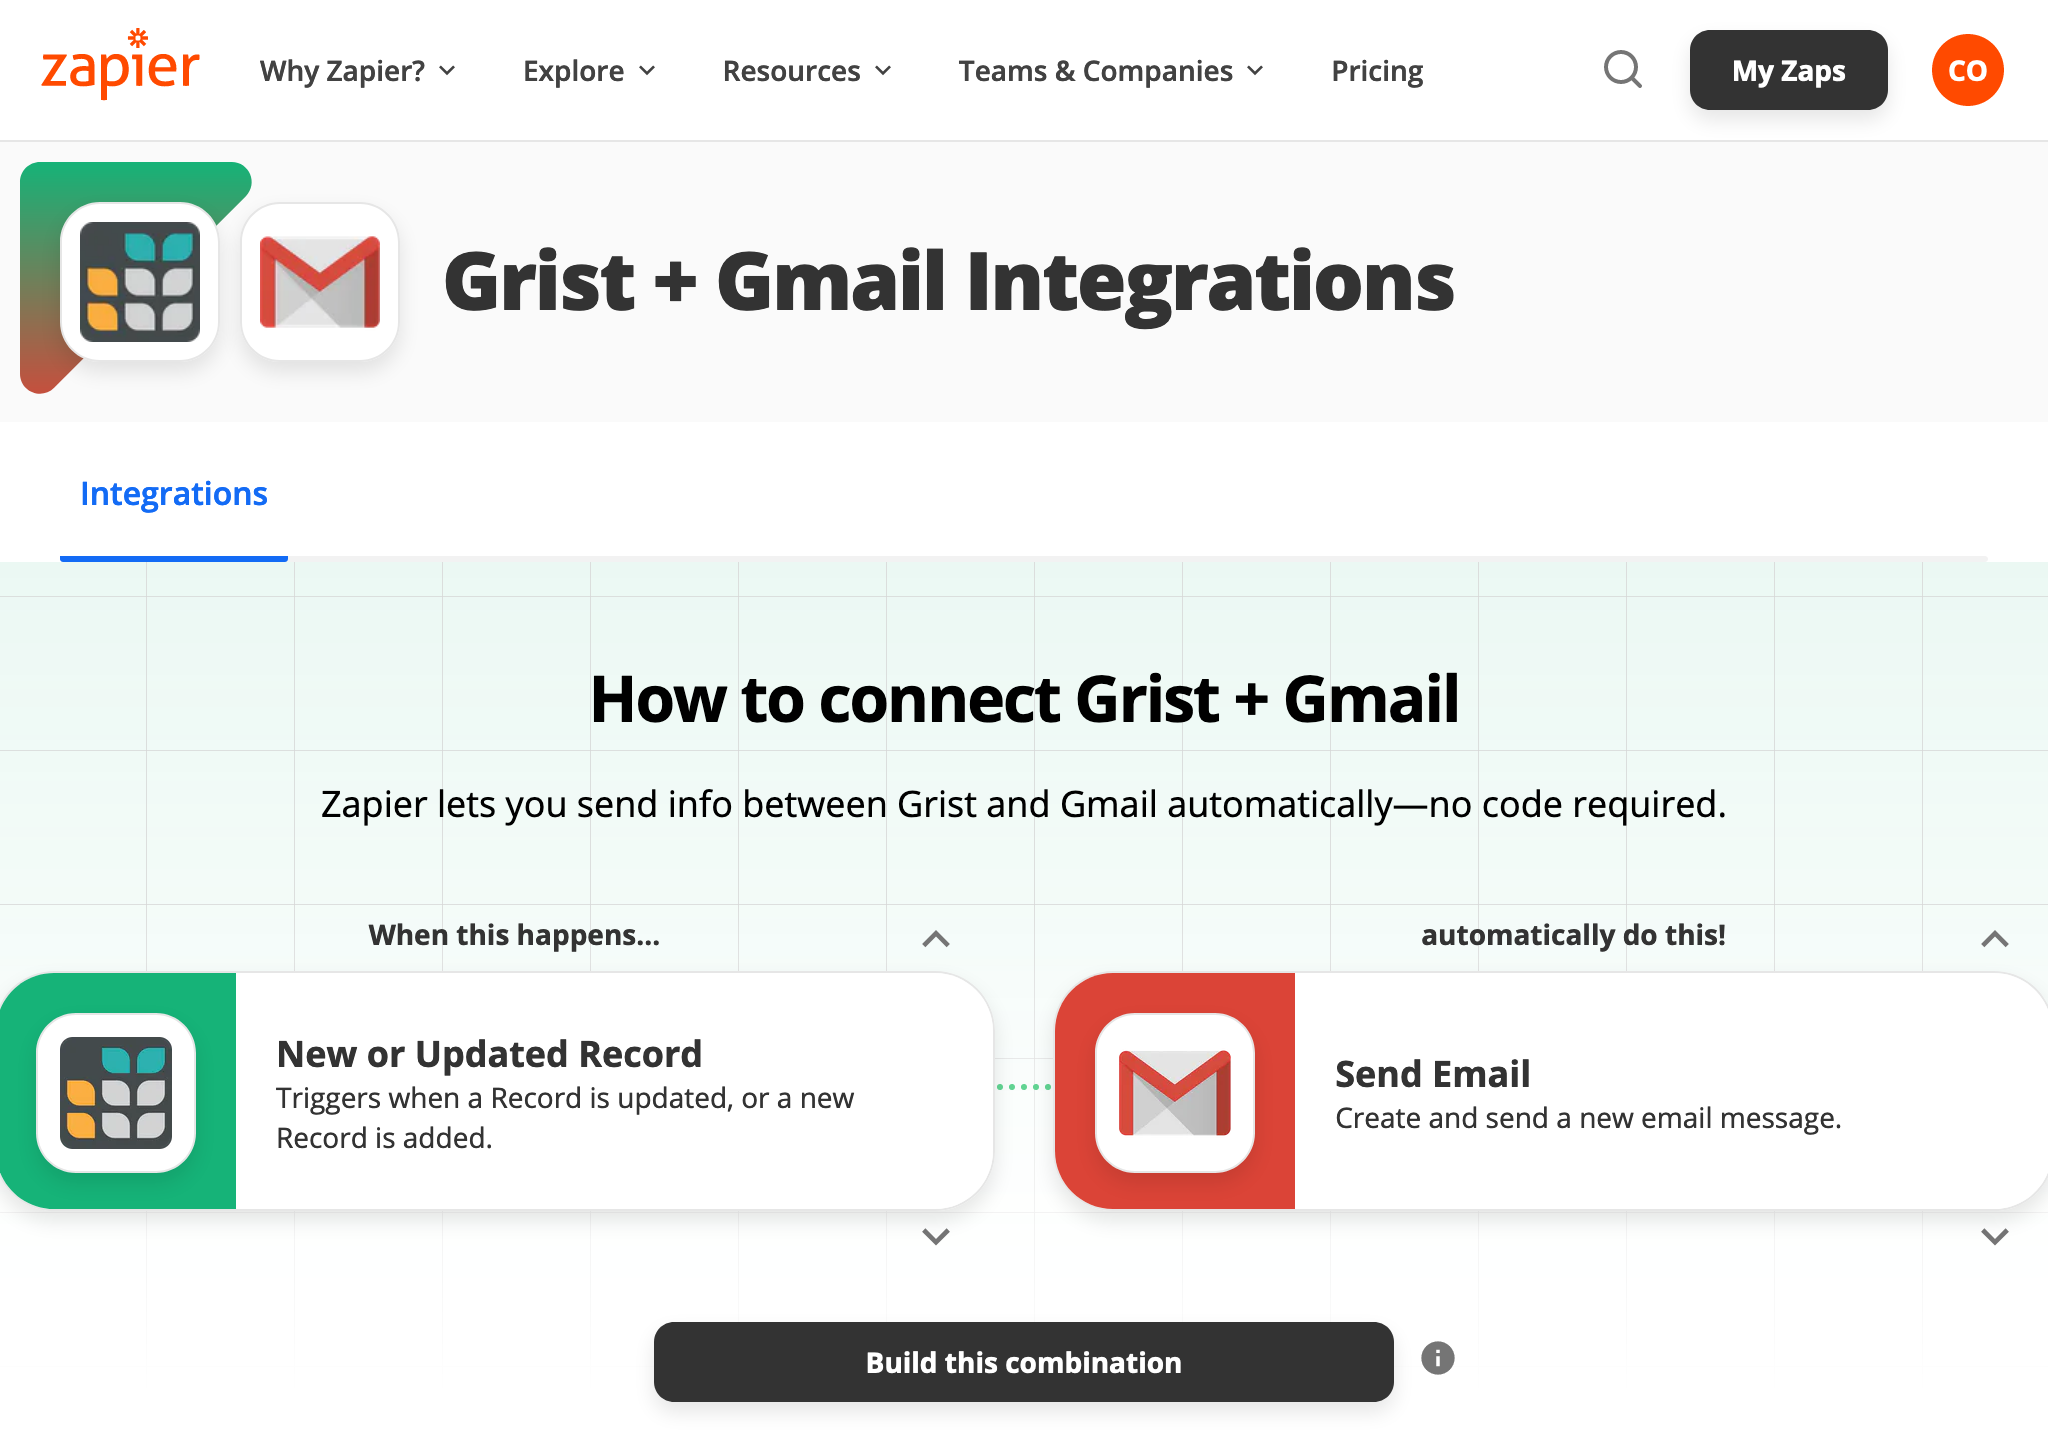
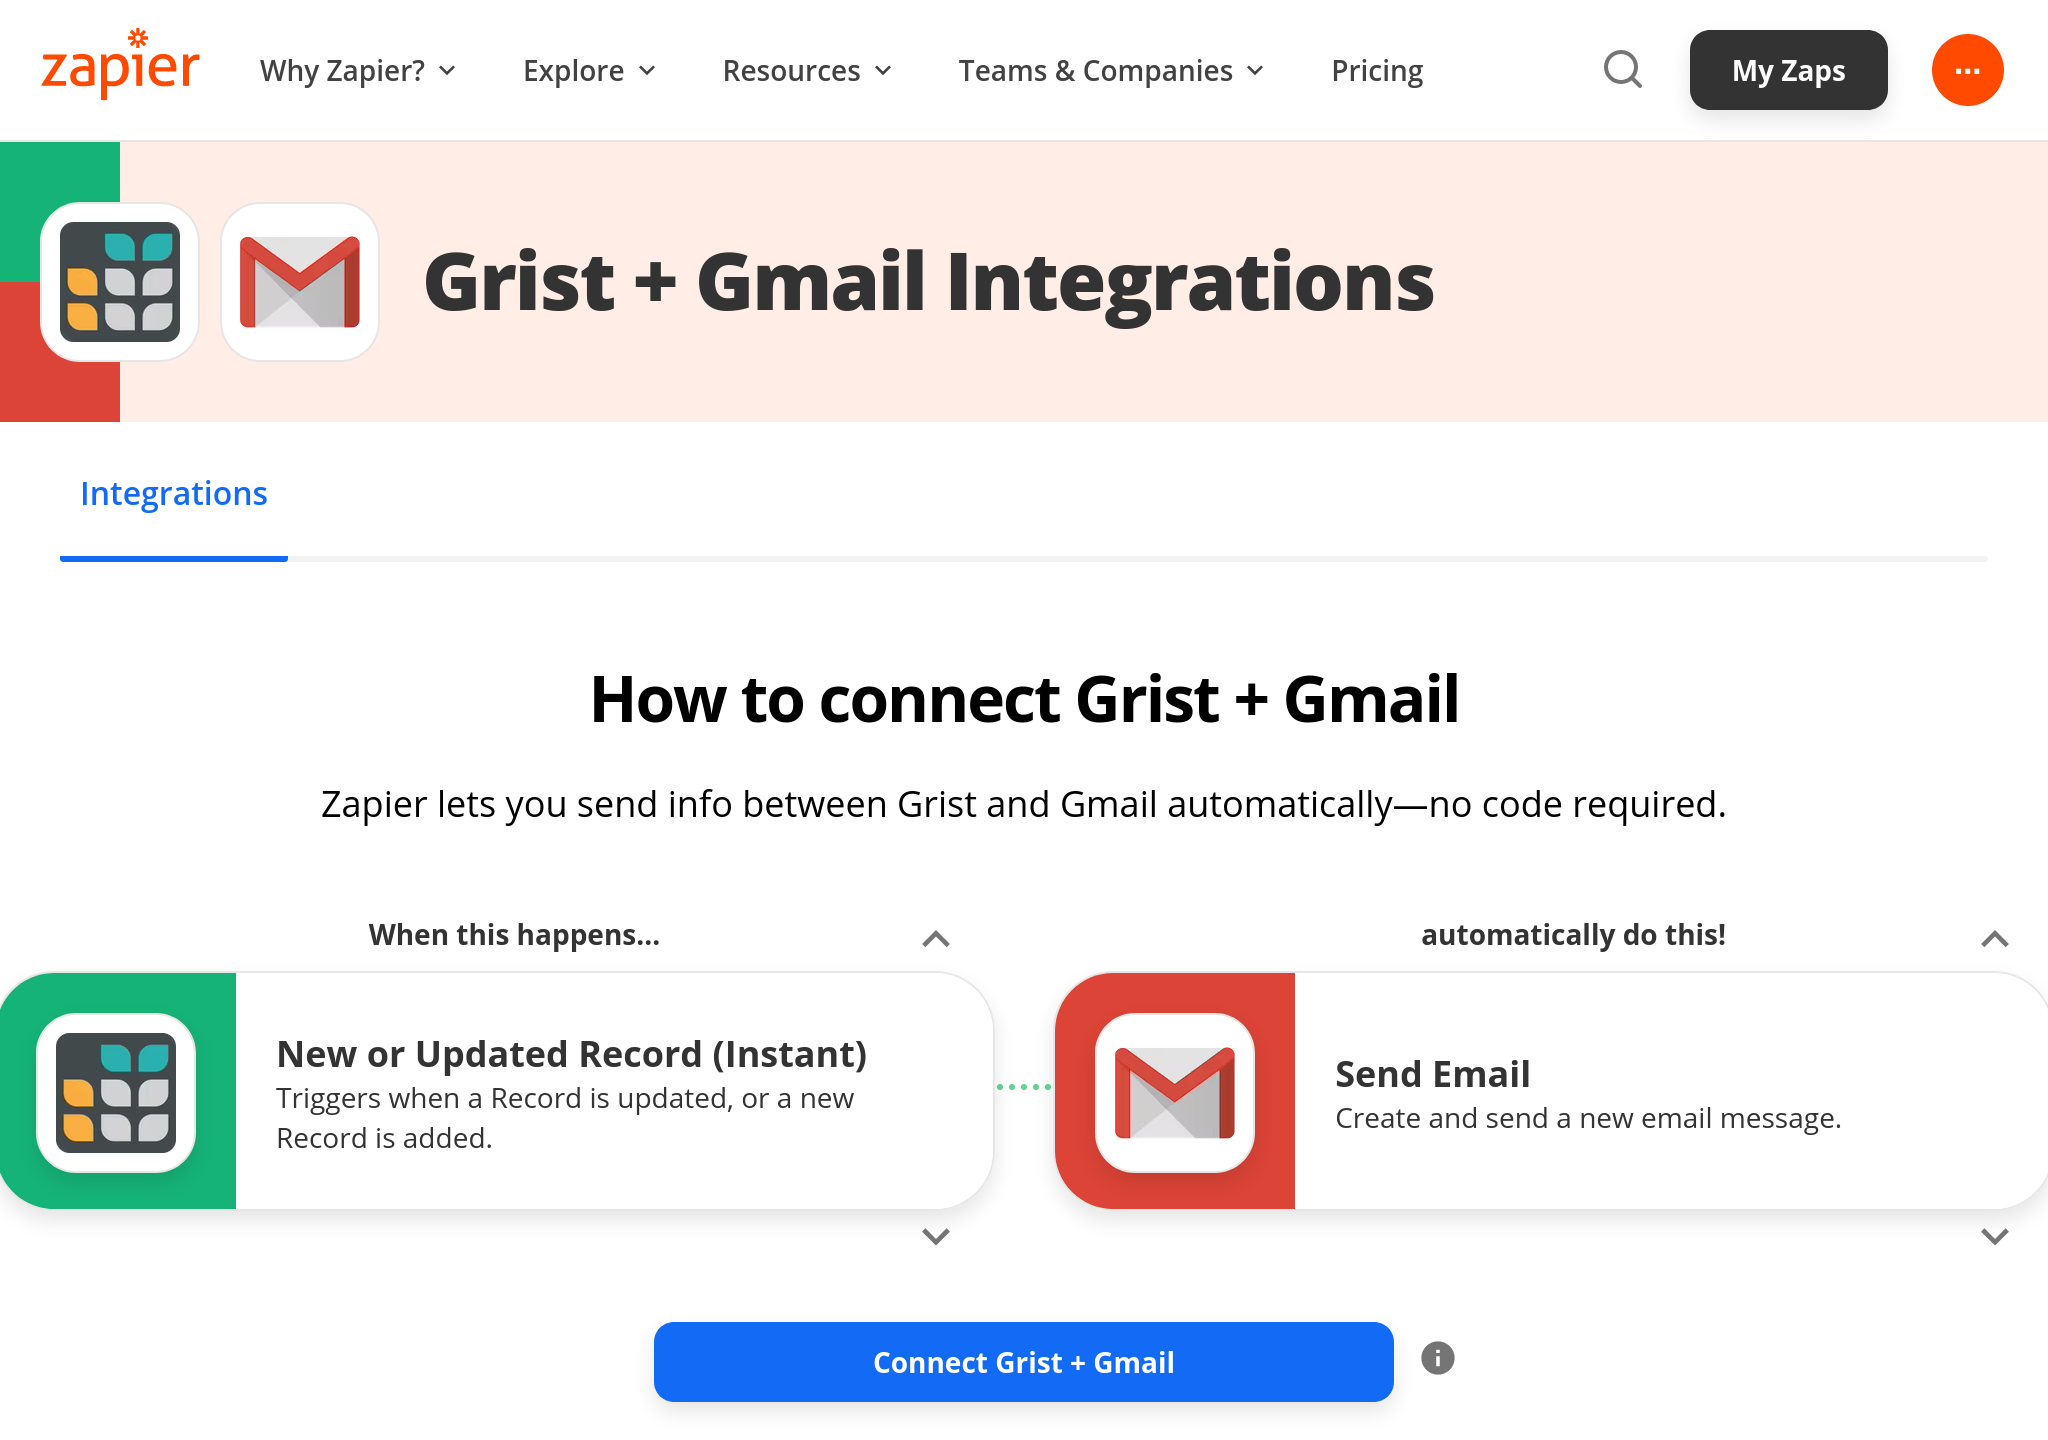
update zapier docs to reflect instant triggers
This encourages and explains instant triggers, and gives some
tips about readiness columns from @nataliemisasi

diff --git a/help/integrators.md b/help/integrators.md
@@ -130,17 +130,33 @@ on Zapier.  There are several mail integrations.  For this example, we pick Gmai
 ![zapier mail options](images/zapier/gmail/zapier-mail-options.png)
 
 Once we've picked the service to connect, now we choose exactly what we want
-it to do.  In this case, we choose that when there is a `New or Updated Record`
-in Grist, we will `Send Email` in Gmail:
+it to do.  In this case, we choose that when there is a `New or Updated Record (Instant)`
+in Grist, we will `Send Email` in Gmail.  Note the `Instant` there.  Triggers
+in Zapier can be either a regular kind where Zapier periodically checks for changes
+(this is relatively slow), or a special "instant" kind that needs special support from
+the triggering service but is a lot faster. Grist supports either kind of trigger,
+and we strongly recommend "instant" if you prefer results in seconds rather than minutes,
+and especially if you are the sort to get anxious if someone doesn't respond to your
+IMs immediately.
 
 ![grist and gmail](images/zapier/gmail/grist-and-gmail.png)
 
+
+
 Once we've chosen a Grist account to use as before, we can pick a table within
-a document to monitor.  In fact we pick a specific column to monitor.  Typically
-this would be an `Updated At` column (see [Timestamp columns](timestamps.md)),
-but it can in fact be anything. In our case we just have a single cell to watch.
+a document to monitor.
 
 ![grist setup](images/zapier/gmail/grist-setup.png)
+
+For instant triggers, we can optionally specify a ["readiness" column](integrators.md#readiness-column). If we
+leave this blank, anytime a record is created or changed in the selected table,
+Grist will notify Zapier about it. If we set it, it should generally be to
+a [toggle column](col-types.md#toggle-columns), and Grist will notify Zapier only
+for records when that column is turned on. That is handy for records that have many
+columns being filled in manually, when we don't want to trigger until they are
+complete. For this example, it is fine to leave the readiness column blank.
+(For regular non-instant triggers, we would need to pick a specific column to monitor. Ideally this would be an `Updated At` column, see [Timestamp columns](timestamps.md)).
+
 
 On the Gmail side, we can email to pre-set addresses, or this could be configured
 dynamically (we'll see an example of how in a moment):
@@ -157,9 +173,9 @@ correctly:
 
 ![gmail test](images/zapier/gmail/gmail-test.png)
 
-Then you can make some votes and watch the system work.  Zapier has a "run zap"
-functionality to force an integration to update immediately if you are
-impatient (otherwise it may only happen periodically):
+Then you can make some votes and watch the system work.  For instant triggers,
+results should show up fairly snappily.  Otherwise, Zapier has a "run zap"
+functionality to force an integration to update immediately:
 
 ![run zap](images/zapier/gmail/run-zap.png)
 
@@ -167,3 +183,49 @@ And emails should start showing up in the desired inboxes. May the best almost
 indistinguishable shade win!
 
 ![email update](images/zapier/gmail/email-update.png)
+
+
+## Readiness column
+
+Grist has a mechanism for alerting other services when data changes
+within a document. This serves as the basis for Zapier instant triggers.
+
+Since Grist is a spreadsheet, it is common for records (rows) to be
+created empty, and for cells to then be filled in one by one. This creates
+an important nuance for notifications. Usually it won't be desirable to
+send a notification until the record is in some sense "ready", but when
+exactly is that?
+
+Grist lets the user decide for themselves, by creating a [toggle
+(boolean) column](col-types.md#toggle-columns) which is turned on when the record is ready. The
+column can be set manually, or via a formula. This is called a
+readiness column.
+
+For example, if you only want to activate a trigger when columns
+called `Name` and `Email` are not empty, your readiness column can
+have the following formula:
+
+```python
+bool($Name and $Email)
+```
+
+You would make the column take effect by supplying it in the
+`Readiness column` option described in the
+[email alert example](integrators.md#example-sending-email-alerts).
+
+### Triggering (or avoiding triggering) on pre-existing records
+
+The order of steps matters when setting up an integration that uses a
+readiness column. If you have existing data, think through whether you
+want the integration to affect all existing data or just updates and
+new data.
+
+For example, if you are sending data from Grist to Google Sheets using
+a Zapier integration, you'll probably want to send your existing data.
+In this case, set up and enable your Zap first with an empty readiness column,
+then turn on all the readiness cells.
+
+If you want to send a notification only when something is added to Grist,
+and not for pre-existing records, make sure your readiness cells are all
+turned on prior to enabling the integration, otherwise once they are turned
+on notifications will be sent for all of them. That may be a lot!
